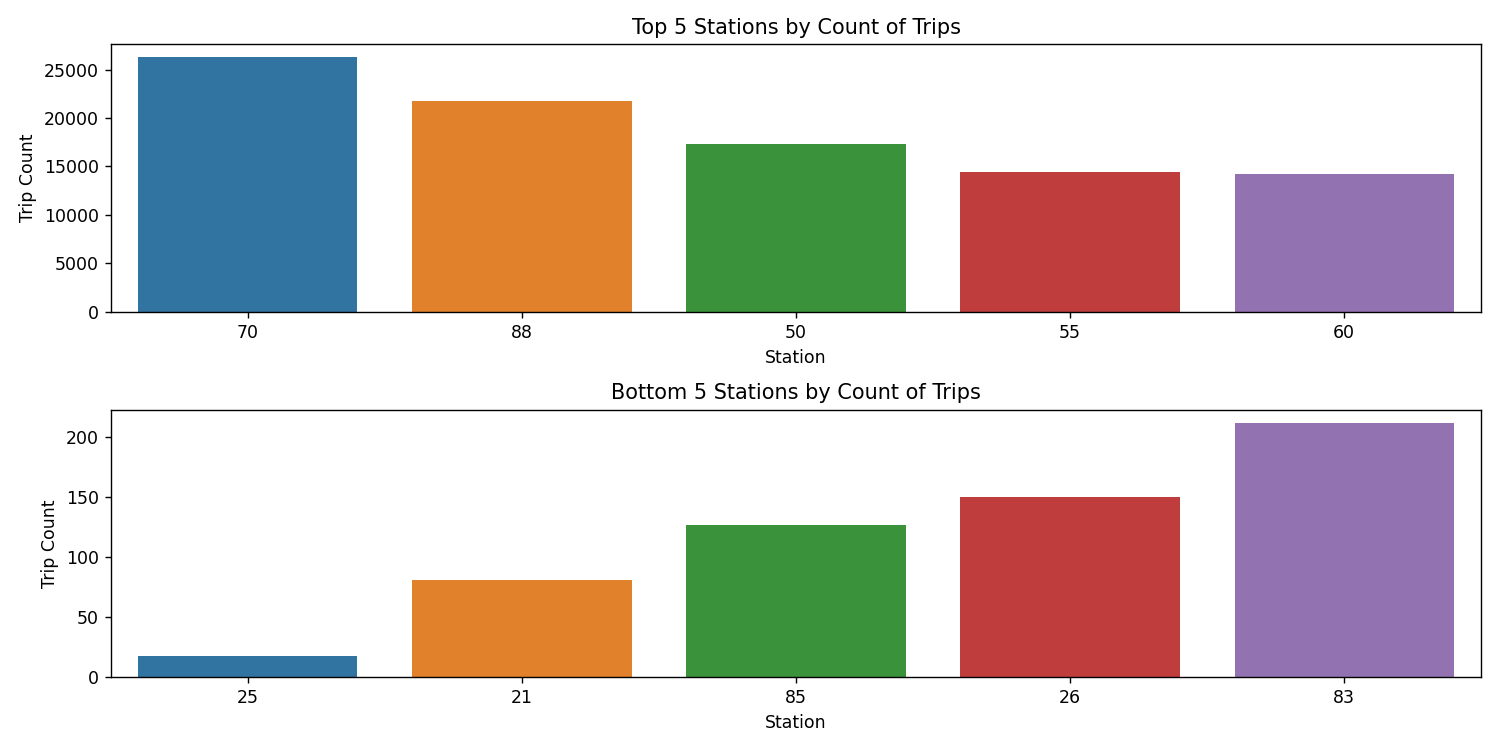
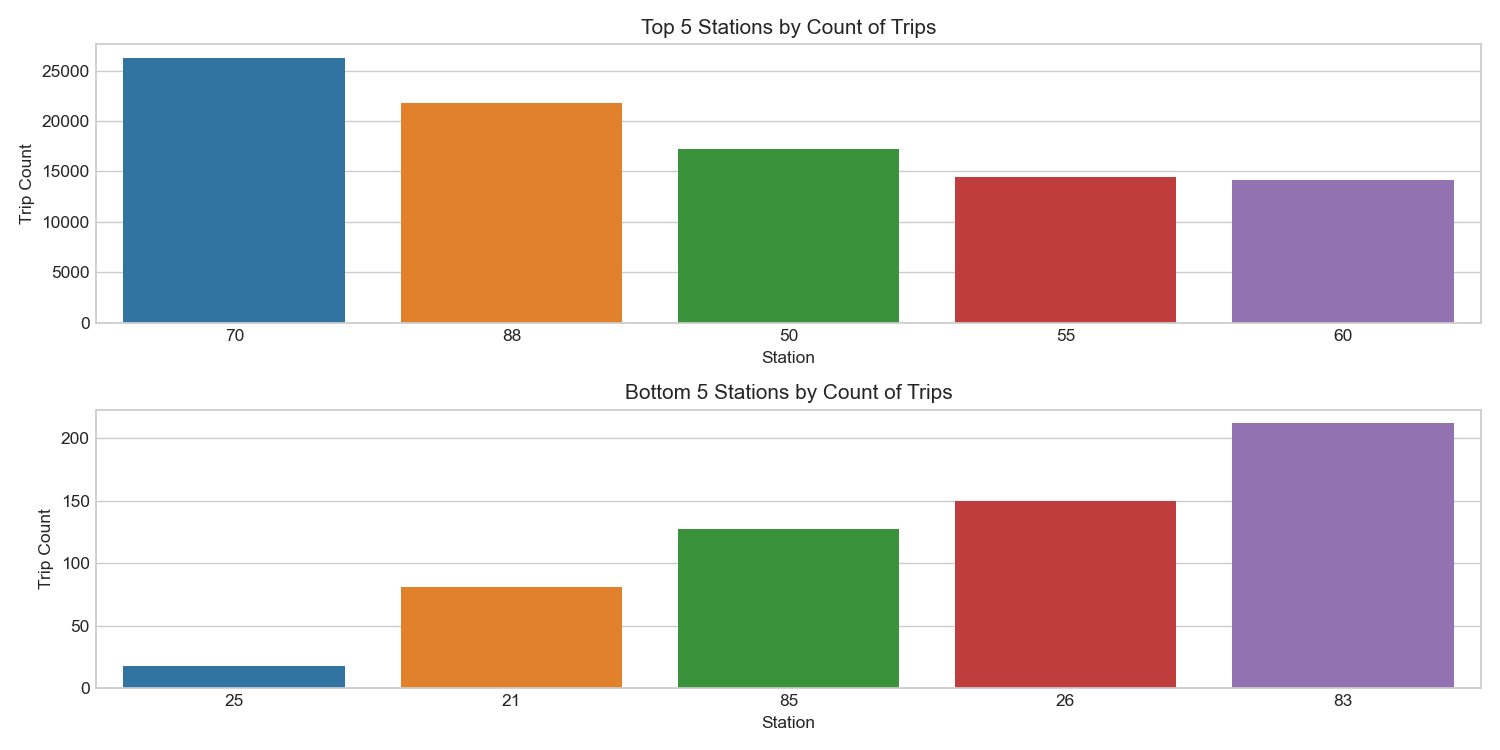
Finished updating viz.py functions. Updated Images files.

diff --git a/src/viz.py b/src/viz.py
@@ -9,6 +9,8 @@ import folium
 from folium.plugins import HeatMap, HeatMapWithTime
 import clean
 
+plt.style.use('seaborn-whitegrid')
+
 def make_compbars(df1, df2, title1, title2, order1, order2, save=False):
     fig, ax=plt.subplots(2, 1,  figsize=(12, 6))
 
@@ -209,23 +211,23 @@ if __name__ == '__main__':
         hours.append(f'{i}:00')
 
     xticklabels = [['Monday', 'Tuesday', 'Wednesday', 'Thursday', 'Friday'],
-                   ['Monday', 'Tuesday', 'Wednesday', 'Thursday', 'Friday', 'Saturday', 'Sunday'],
+                   ['Mon', 'Tues', 'Wed', 'Thurs', 'Fri', 'Sat', 'Sun'],
                    ['Saturday', 'Sunday'],
                    months,
                    hours]
 
     xlabels = ['Day of Week', 'Weekend Day', 'Month', 'Time of Day']
     
-    # make_compbars(dfs[1], dfs[1], titles[0], titles[1], orders[0], orders[1], save=True)
+    # make_compbars(dfs[1], dfs[1], titles[0], titles[1], orders[0], orders[1])
     # make_compbars(dfs[5], dfs[4], titles[2], titles[3], orders[2], orders[3], save=True)
-    # make_groupbars(dfs[1], increments[2], titles[7], xticklabels[3], xlabels[2], save=True)
-    # make_groupbars(dfs[1], increments[1], titles[5], xticklabels[1], xlabels[0], save=True)
+    # make_groupbars(dfs[1], increments[2], titles[7], xticklabels[3][1:], xlabels[2])
+    # make_groupbars(dfs[1], increments[1], titles[5], xticklabels[1], xlabels[0])
     # stat_map = make_map(dfs[0], titles[8])
     # stat_map.save('/Users/Diogenes/Documents/take_homes/BikeShare/images/bike_station_map.html')
     # heat_map = make_heatmap(heat_lst, titles[10], df= None, time= False)
     # heat_map.save('/Users/Diogenes/Documents/take_homes/BikeShare/images/bike_station_heatmap.html')
     # temp_heat_map = make_heatmap(heat_lst, titles[9], df= heat_df, time= True)
     # temp_heat_map.save('/Users/Diogenes/Documents/take_homes/BikeShare/images/bike_station_heatmap_wTime.html')
-    # group_plot(dfs[1],increments[1], 'size', xticklabels[1], xlabels[0], 'Trip Count', titles[11], save=True)
-    # group_plot(dfs[1],increments[0], 'size', xticklabels[4], xlabels[3], 'Trip Count', titles[13], save=True)
-    group_plot(dfs[1],increments[2], 'size', xticklabels[3], xlabels[2], 'Trip Count', titles[12], save=True)
+    # group_plot(dfs[1],increments[1], 'size', xticklabels[1], xlabels[0], 'Trip Count', titles[11])
+    # group_plot(dfs[1],increments[0], 'size', xticklabels[4], xlabels[3], 'Trip Count', titles[13])
+    # group_plot(dfs[1],increments[2], 'size', xticklabels[3], xlabels[2], 'Trip Count', titles[12])
